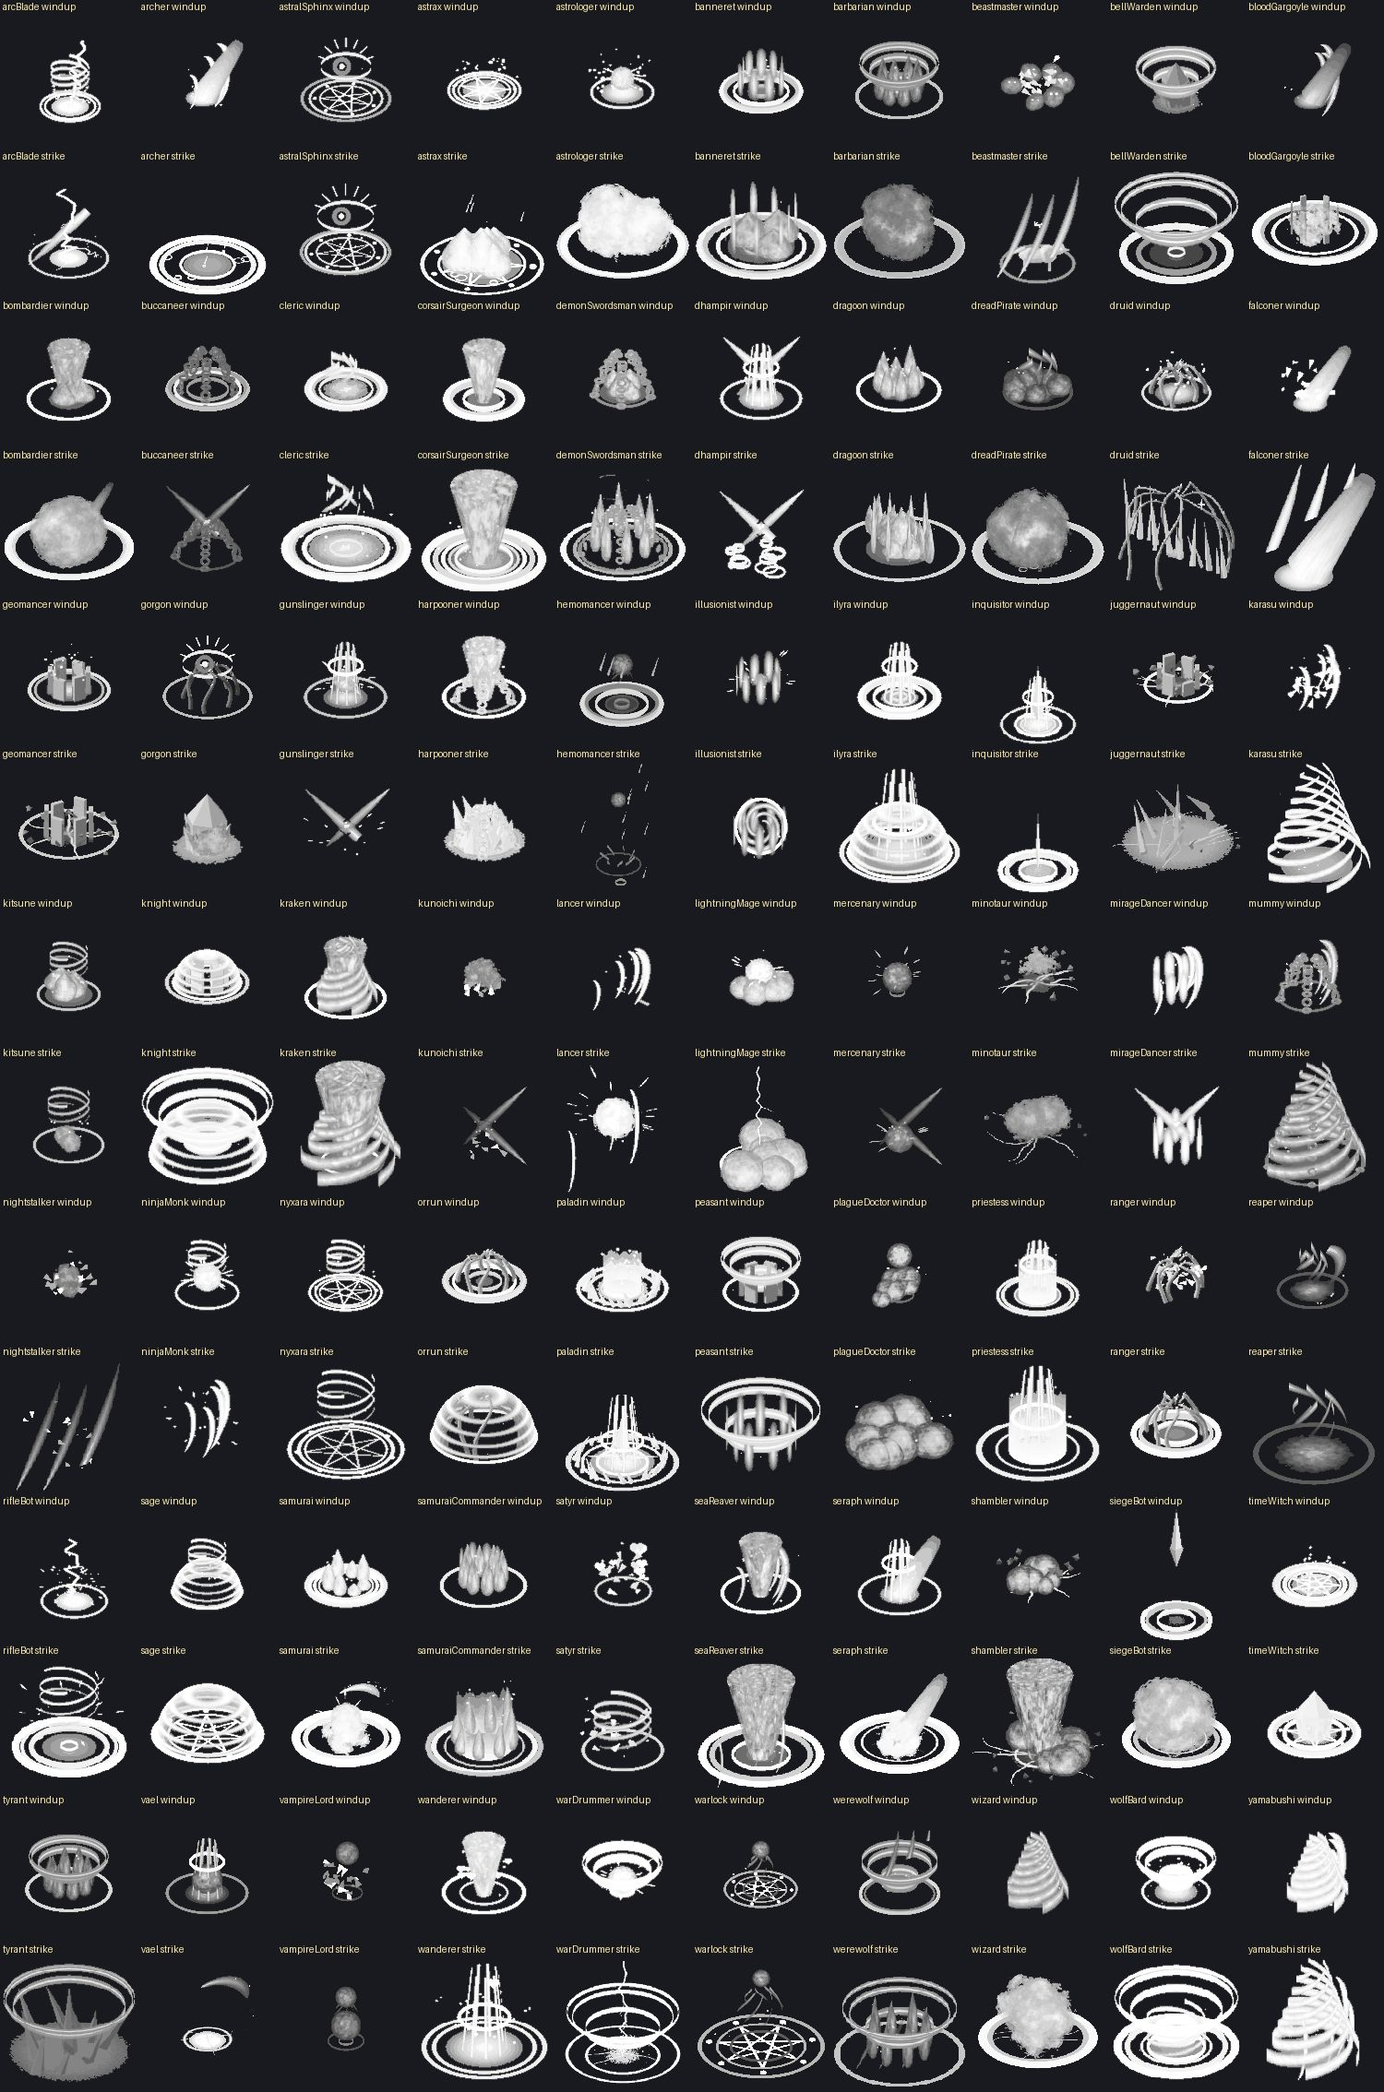
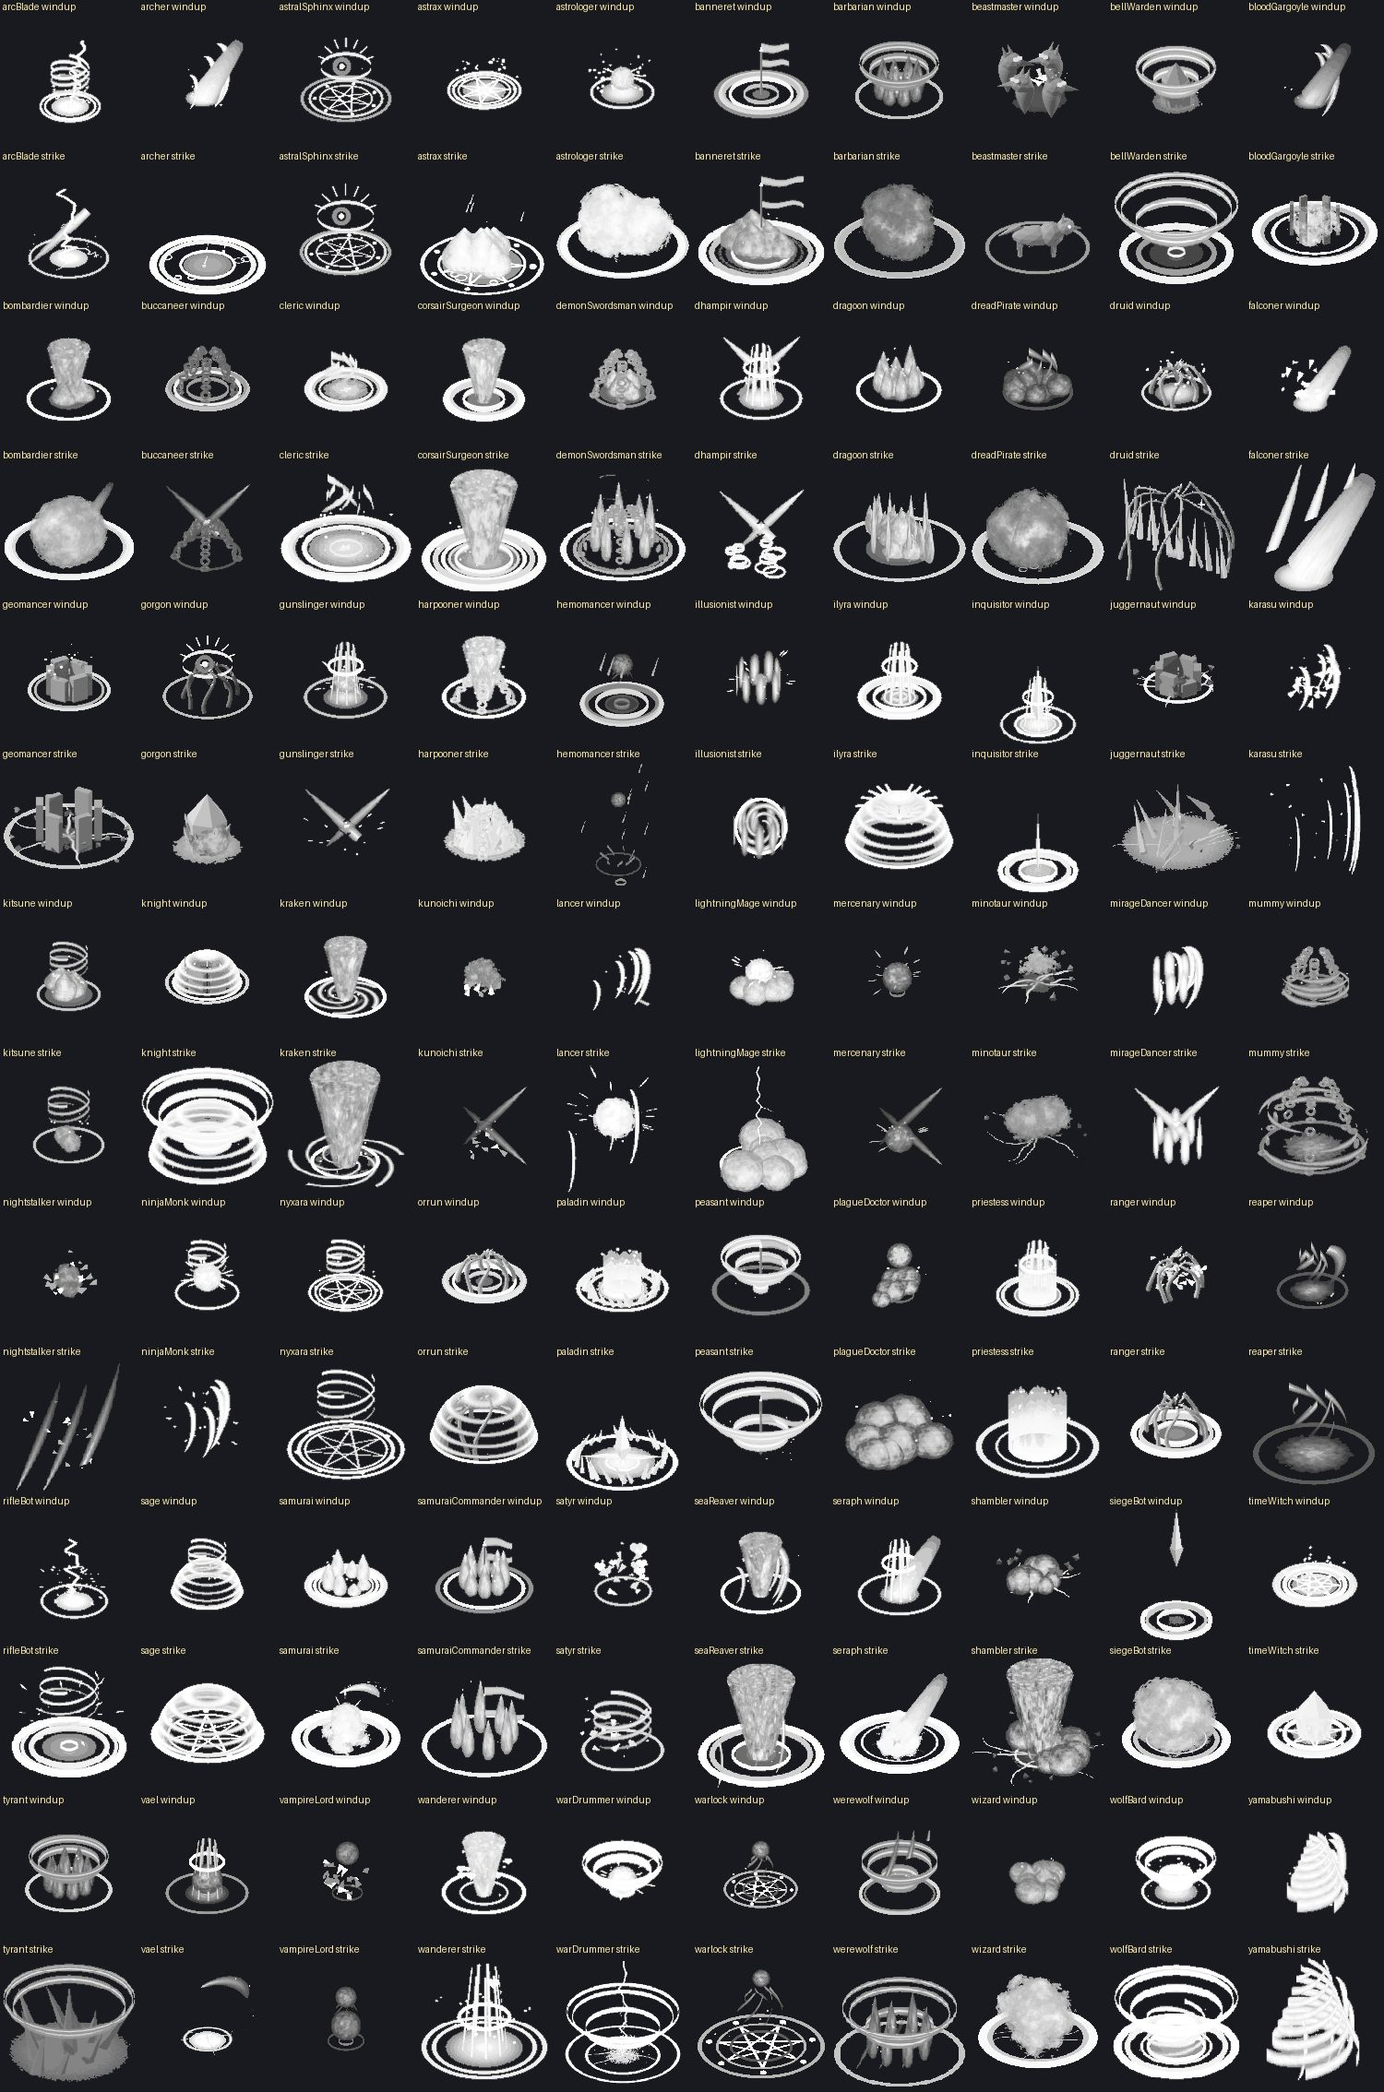
ULT-AUDIT batch 11: three wolves' heads set apart, no ring under a wolf; a show cut short photographed; the note and sheets
Claude-Session: https://claude.ai/code/session_01RRJtWnKv3aqtC5Z8HqXpVz

diff --git a/src/render/blenderFxData.ts b/src/render/blenderFxData.ts
@@ -7,7 +7,7 @@ import type { BfxClip } from './blenderFxRules';
 export const BFX_DENSITY = 45;
 export const BFX_GLOW_SHRINK = 4;
 /** The hard pixel atlases' sizes, then the soft glow atlases' (`px-<n>.webp`, `soft-<n>.webp`). */
-export const BFX_PX: readonly (readonly [number, number])[] = [[2041, 2022], [1992, 694], [1088, 1104], [808, 1016], [822, 588], [885, 820], [217, 241], [988, 806], [1137, 1385], [1003, 623], [994, 778], [316, 280], [986, 966], [1016, 805], [545, 277], [1015, 996], [923, 903], [1020, 720], [1176, 1280], [1516, 1280], [873, 563], [1137, 1405], [1008, 1200], [979, 716], [929, 910], [620, 256], [1264, 1028], [994, 605], [1023, 821], [919, 810], [874, 978], [277, 220], [754, 896], [991, 893], [1022, 950], [280, 259], [817, 817], [918, 856], [980, 813], [802, 799], [834, 1009], [991, 950], [689, 569], [841, 1021], [881, 584], [900, 898], [286, 217], [930, 974], [494, 241], [987, 993], [286, 196], [977, 902], [541, 473], [781, 941], [894, 701], [943, 886], [902, 993], [1076, 1048], [980, 738], [917, 874], [451, 496], [984, 1048], [974, 866], [1001, 758], [1516, 1200], [1014, 630], [1137, 1400], [992, 776], [1516, 1200], [891, 926], [829, 809], [945, 680], [1020, 1011], [813, 223], [1018, 1022], [499, 136], [1024, 1018], [699, 226], [1012, 1015], [515, 145], [1019, 991], [492, 148], [1003, 1020], [428, 213], [1015, 1018], [429, 124], [1003, 1006], [960, 208], [1021, 1023], [473, 145], [1024, 1008], [650, 226]];
+export const BFX_PX: readonly (readonly [number, number])[] = [[2041, 2022], [1992, 694], [1088, 1104], [808, 1016], [822, 588], [885, 820], [217, 241], [988, 806], [1137, 1385], [1016, 691], [994, 778], [316, 280], [986, 966], [1016, 805], [545, 277], [1015, 996], [923, 903], [1020, 720], [1176, 1280], [1516, 1280], [873, 563], [1137, 1405], [1008, 1200], [979, 716], [929, 910], [620, 256], [1264, 1028], [994, 605], [1023, 821], [919, 810], [874, 978], [277, 220], [754, 896], [991, 893], [1022, 950], [280, 259], [817, 817], [918, 856], [980, 813], [802, 799], [834, 1009], [991, 950], [689, 569], [841, 1021], [881, 584], [900, 898], [286, 217], [930, 974], [494, 241], [987, 993], [286, 196], [977, 902], [541, 473], [781, 941], [894, 701], [943, 886], [902, 993], [1076, 1048], [980, 738], [917, 874], [451, 496], [984, 1048], [974, 866], [1001, 758], [1516, 1200], [1014, 630], [1137, 1400], [992, 776], [1516, 1200], [891, 926], [829, 809], [945, 680], [1020, 1011], [813, 223], [1018, 1022], [499, 136], [1024, 1018], [699, 226], [1012, 1015], [515, 145], [1019, 991], [492, 148], [1003, 1020], [428, 213], [1015, 1018], [429, 124], [1003, 1006], [960, 208], [1021, 1023], [473, 145], [1024, 1008], [650, 226]];
 export const BFX_SOFT: readonly (readonly [number, number])[] = [[2048, 1319]];
 /** The pixel atlases every fight may need (the spells, the ground loops): loaded up front. The rest are loaded when a fight needs them. */
 export const BFX_CORE: readonly number[] = [0, 1];
@@ -268,9 +268,9 @@ export const BFX_CLIPS: Readonly<Record<string, BfxClip>> = {
   'ult-barbarian-aftermath': {"a": 16, "x": 265, "y": 626, "w": 111, "h": 88, "n": 9, "cols": 3, "ax": 55.5, "ay": 59.6, "ms": 1500, "loop": false, "hold": 4, "layer": "over", "el": "blood", "cuts": [[0, 7], [1, 8]], "sc": ["crack", "flare"]},
   'ult-barbarian-strike': {"a": 15, "x": 0, "y": 0, "w": 265, "h": 199, "n": 13, "cols": 3, "ax": 132.5, "ay": 132.1, "ms": 1300, "loop": false, "hold": 7, "layer": "over", "el": "blood", "cuts": [[1, 12], [0, 8], [3, 12]], "sc": ["impact", "crack", "burst"]},
   'ult-barbarian-windup': {"a": 16, "x": 631, "y": 0, "w": 97, "h": 86, "n": 12, "cols": 3, "ax": 48.5, "ay": 61.6, "ms": 1600, "loop": false, "hold": 9, "layer": "over", "el": "blood", "cuts": [[0, 11], [3, 11]], "sc": ["flare", "shout"]},
-  'ult-beastmaster-aftermath': {"a": 9, "x": 732, "y": 0, "w": 90, "h": 72, "n": 9, "cols": 3, "ax": 45.0, "ay": 49.5, "ms": 2100, "loop": false, "hold": 4, "layer": "over", "el": "forest", "cuts": [[0, 7], [1, 8]], "sc": ["trail", "motes"]},
-  'ult-beastmaster-strike': {"a": 9, "x": 0, "y": 0, "w": 115, "h": 99, "n": 13, "cols": 4, "ax": 57.5, "ay": 70.3, "ms": 1300, "loop": false, "hold": 7, "layer": "over", "el": "forest", "cuts": [[0, 8], [3, 12]], "sc": ["beast", "trail"], "at": "each"},
-  'ult-beastmaster-windup': {"a": 9, "x": 461, "y": 0, "w": 90, "h": 85, "n": 12, "cols": 3, "ax": 46.0, "ay": 64.0, "ms": 2200, "loop": false, "hold": 11, "layer": "over", "el": "forest", "cuts": [[0, 11], [3, 11]], "sc": ["eyes", "swarm"]},
+  'ult-beastmaster-aftermath': {"a": 9, "x": 0, "y": 429, "w": 89, "h": 87, "n": 9, "cols": 3, "ax": 44.5, "ay": 57.7, "ms": 2100, "loop": false, "hold": 4, "layer": "over", "el": "forest", "cuts": [[0, 7], [1, 8]], "sc": ["gust", "motes"]},
+  'ult-beastmaster-strike': {"a": 9, "x": 370, "y": 0, "w": 98, "h": 91, "n": 13, "cols": 4, "ax": 49.5, "ay": 70.3, "ms": 1300, "loop": false, "hold": 3, "layer": "over", "el": "forest", "cuts": [[0, 8], [3, 12]], "sc": ["beast", "trail"], "at": "each"},
+  'ult-beastmaster-windup': {"a": 9, "x": 0, "y": 0, "w": 123, "h": 107, "n": 12, "cols": 3, "ax": 60.5, "ay": 80.0, "ms": 2200, "loop": false, "hold": 11, "layer": "over", "el": "forest", "cuts": [[0, 11], [3, 11]], "sc": ["eyes", "swarm"]},
   'ult-bellWarden-aftermath': {"a": 59, "x": 283, "y": 573, "w": 104, "h": 84, "n": 9, "cols": 3, "ax": 52.0, "ay": 57.4, "ms": 1700, "loop": false, "hold": 3, "layer": "over", "el": "shadow", "cuts": [[0, 7], [1, 8]], "sc": ["ring", "veil"]},
   'ult-bellWarden-strike': {"a": 59, "x": 0, "y": 0, "w": 162, "h": 143, "n": 13, "cols": 4, "ax": 81.0, "ay": 101.6, "ms": 1300, "loop": false, "hold": 5, "layer": "over", "el": "shadow", "cuts": [[0, 8], [3, 12]], "sc": ["shout", "ring"], "at": "self"},
   'ult-bellWarden-windup': {"a": 59, "x": 649, "y": 0, "w": 89, "h": 75, "n": 12, "cols": 3, "ax": 44.5, "ay": 61.6, "ms": 1900, "loop": false, "hold": 8, "layer": "over", "el": "shadow", "cuts": [[0, 11], [4, 11]], "sc": ["shout", "crystal"]},
@@ -448,9 +448,9 @@ export const BFX_CLIPS: Readonly<Record<string, BfxClip>> = {
   'ult-werewolf-aftermath': {"a": 41, "x": 681, "y": 0, "w": 103, "h": 106, "n": 9, "cols": 3, "ax": 51.5, "ay": 78.5, "ms": 1700, "loop": false, "hold": 3, "layer": "over", "el": "blood", "cuts": [[0, 7], [1, 8]], "sc": ["ring", "claws"]},
   'ult-werewolf-strike': {"a": 41, "x": 0, "y": 0, "w": 170, "h": 165, "n": 13, "cols": 4, "ax": 85.0, "ay": 122.8, "ms": 1300, "loop": false, "hold": 6, "layer": "over", "el": "blood", "cuts": [[0, 8], [3, 12], [1, 11]], "sc": ["claws", "shout", "flare"], "at": "self"},
   'ult-werewolf-windup': {"a": 41, "x": 0, "y": 661, "w": 94, "h": 96, "n": 12, "cols": 4, "ax": 47.0, "ay": 71.0, "ms": 1900, "loop": false, "hold": 8, "layer": "over", "el": "blood", "cuts": [[0, 11], [3, 11], [6, 11]], "sc": ["ring", "shout", "claws"]},
-  'ult-wizard-aftermath': {"a": 9, "x": 0, "y": 397, "w": 115, "h": 75, "n": 9, "cols": 3, "ax": 59.5, "ay": 49.7, "ms": 1800, "loop": false, "hold": 2, "layer": "over", "el": "fire", "cuts": [[0, 7], [1, 8]], "sc": ["crack", "flames"]},
+  'ult-wizard-aftermath': {"a": 9, "x": 268, "y": 429, "w": 115, "h": 75, "n": 9, "cols": 3, "ax": 59.5, "ay": 49.7, "ms": 1800, "loop": false, "hold": 2, "layer": "over", "el": "fire", "cuts": [[0, 7], [1, 8]], "sc": ["crack", "flames"]},
   'ult-wizard-strike': {"a": 8, "x": 0, "y": 0, "w": 379, "h": 277, "n": 13, "cols": 3, "ax": 189.5, "ay": 183.0, "ms": 1300, "loop": false, "hold": 4, "layer": "over", "el": "fire", "cuts": [[1, 12], [0, 8], [3, 12]], "sc": ["impact", "burst", "crack"]},
-  'ult-wizard-windup': {"a": 9, "x": 346, "y": 397, "w": 63, "h": 70, "n": 12, "cols": 4, "ax": 32.0, "ay": 48.8, "ms": 2000, "loop": false, "hold": 10, "layer": "over", "el": "fire", "cuts": [[0, 11], [3, 11]], "sc": ["cloud", "flames"]},
+  'ult-wizard-windup': {"a": 9, "x": 763, "y": 0, "w": 63, "h": 70, "n": 12, "cols": 4, "ax": 32.0, "ay": 48.8, "ms": 2000, "loop": false, "hold": 10, "layer": "over", "el": "fire", "cuts": [[0, 11], [3, 11]], "sc": ["cloud", "flames"]},
   'ult-wolfBard-aftermath': {"a": 51, "x": 268, "y": 573, "w": 104, "h": 92, "n": 9, "cols": 3, "ax": 52.0, "ay": 65.2, "ms": 1700, "loop": false, "hold": 3, "layer": "over", "el": "wind", "cuts": [[0, 7], [1, 8]], "sc": ["ring", "spiral"]},
   'ult-wolfBard-strike': {"a": 51, "x": 0, "y": 0, "w": 162, "h": 143, "n": 13, "cols": 4, "ax": 81.0, "ay": 101.6, "ms": 1300, "loop": false, "hold": 4, "layer": "over", "el": "wind", "cuts": [[0, 8], [3, 12], [1, 11]], "sc": ["shout", "spiral", "ring"], "at": "self"},
   'ult-wolfBard-windup': {"a": 51, "x": 0, "y": 573, "w": 89, "h": 82, "n": 12, "cols": 3, "ax": 44.5, "ay": 61.6, "ms": 1900, "loop": false, "hold": 10, "layer": "over", "el": "wind", "cuts": [[0, 11], [2, 11]], "sc": ["shout", "motes"]},

diff --git a/tools/blender-fx/scenes.py b/tools/blender-fx/scenes.py
@@ -1752,9 +1752,9 @@ def beast(c, size=1.0, puffs=3):
         for o, a, rad, sc in smoke_:
             q = win(t, 0, 0.7)
             put(o, (-F[0] * 0.4 * s + math.cos(a) * rad * s * (0.4 + q), -F[1] * 0.4 * s + math.sin(a) * rad * s * (0.4 + q), 0.2 * s + 0.4 * s * q * sc), 0.24 * s * sc * (0.5 + 0.5 * ease(q)), (q, q * 0.5, a))
-        put(ring, scale=(0.75 * s * (0.3 + 0.7 * ease(win(t, 0.5, 0.9))),) * 2 + (1,))
-        rv.outputs[0].default_value = win(t, 0.5, 0.6) * (1 - win(t, 0.75, 1))
-        hide(ring, t < 0.5)
+        # (no ring where it lands: a bright ring of the element under each wolf was the loudest thing in the picture; a little dust
+        # kicked up is enough)
+        hide(ring, True)
     return step
 
 
@@ -1764,7 +1764,7 @@ def eyes(c, r=1.3, n=5, size=1.0):
     # side by side that open, watch and blink. Animals, plainly, and plainly pairs of eyes)
     em, ev = c.flat((1.0, 0.55, 0.05), 1.6)
     _plain_lights(c)
-    fm, fa = c.solid((0.2, 0.19, 0.2), (0.05, 0.045, 0.05), 0.4, 0.85, 0.0)
+    fm, fa = c.solid((0.13, 0.125, 0.13), (0.035, 0.03, 0.035), 0.4, 0.9, 0.0)
     shade, sa = c.disc('deep', 0.9, r * 1.2, noise=3)
     heads = []
     for k in range(n):
@@ -1793,9 +1793,9 @@ def eyes(c, r=1.3, n=5, size=1.0):
             gk = g * k
             put(neck, (x - RIGHT[0] * f * 0.06 * gk, y - RIGHT[1] * f * 0.06 * gk, z * 0.5), (0.24 * gk + 0.001, 0.24 * gk + 0.001, 0.36 * gk + 0.001), (math.pi, 0, 0))
             put(head, (x, y, z), (0.2 * gk + 0.001, 0.2 * gk + 0.001, 0.17 * gk + 0.001))
-            put(snout, (x + RIGHT[0] * f * 0.27 * gk, y + RIGHT[1] * f * 0.27 * gk, z - 0.045 * gk), (0.085 * gk + 0.001, 0.085 * gk + 0.001, 0.36 * gk + 0.001), (0, f * math.radians(100), math.radians(45)))
+            put(snout, (x + RIGHT[0] * f * 0.33 * gk, y + RIGHT[1] * f * 0.33 * gk, z - 0.05 * gk), (0.095 * gk + 0.001, 0.095 * gk + 0.001, 0.5 * gk + 0.001), (0, f * math.radians(100), math.radians(45)))
             for side, e in zip((-1, 1), ears):
-                put(e, (x - RIGHT[0] * f * (0.07 + side * 0.05) * gk + TOWARDS[0] * side * 0.05 * gk, y - RIGHT[1] * f * (0.07 + side * 0.05) * gk + TOWARDS[1] * side * 0.05 * gk, z + 0.22 * gk), (0.055 * gk + 0.001, 0.055 * gk + 0.001, 0.26 * gk + 0.001), (0, -f * 0.3, math.radians(45)))
+                put(e, (x - RIGHT[0] * f * (0.07 + side * 0.05) * gk + TOWARDS[0] * side * 0.05 * gk, y - RIGHT[1] * f * (0.07 + side * 0.05) * gk + TOWARDS[1] * side * 0.05 * gk, z + 0.22 * gk), (0.075 * gk + 0.001, 0.075 * gk + 0.001, 0.36 * gk + 0.001), (0, -f * 0.3, math.radians(45)))
             opened = win(t, lag + 0.2, lag + 0.28) * (0.12 if abs(t - blink) < 0.03 else 1.0)
             for side, e in zip((-1, 1), pair):
                 # (the near eye, and the far one just seen past the brow)

diff --git a/tools/blender-fx/effects.py b/tools/blender-fx/effects.py
@@ -179,7 +179,7 @@ BIG = dict(
     shout=(dict(r=1.8, h=1.6, n=5), 2.2, 3.2), swarm=(dict(r=1.5, h=2.0, n=30), 1.9, 2.6), motes=(dict(r=1.6, h=2.2, n=34, crosses=7), 2.0, 2.6),
     hearts=(dict(r=1.0, h=2.0, n=9), 1.5, 2.6), wall=(dict(length=3.0, h=1.7, tongues=9), 2.4, 2.2), flames=(dict(r=1.3, h=1.3, tongues=9), 1.9, 2.2),
     palisade=(dict(length=3.2, h=1.7, n=8), 2.4, 2.2), beast=(dict(size=2.3), 1.9, 2.2), whirlpool=(dict(r=1.7, arms=5), 2.0, 0.8), sandstorm=(dict(r=1.6, h=1.3), 1.9, 1.8),
-    wings=(dict(r=1.4, h=2.1), 1.7, 2.9), banner=(dict(h=2.4, w=1.3), 1.7, 2.9), eyes=(dict(r=1.9, n=4, size=2.6), 2.6, 2.4),
+    wings=(dict(r=1.4, h=2.1), 1.7, 2.9), banner=(dict(h=2.4, w=1.3), 1.7, 2.9), eyes=(dict(r=2.5, n=3, size=3.0), 3.1, 2.7),
     implode=(dict(r=1.9, n=16, z=0.8), 2.5, 2.3), slab=(dict(r=0.9, n=6, h=1.3, dark=True), 1.7, 1.9), shaft=(dict(r=0.6, h=3.2, slant=0.4), 2.6, 3.8),
 )
 
@@ -265,7 +265,7 @@ WIND_COLOURS = dict(beastmaster=22)
 # ground loops' pairs out of this file by their shape.)
 AFTER_OWN = dict(
     vael=['sigil', 'souls'], astrax=['flames', 'motes'], ilyra=['ring', 'halo'], orrun=['vines', 'swarm'],
-    nyxara=['sigil', 'spiral'], kunoichi=['cloud', 'swarm'], wizard=['crack', 'flames'], beastmaster=['trail', 'motes'],
+    nyxara=['sigil', 'spiral'], kunoichi=['cloud', 'swarm'], wizard=['crack', 'flames'], beastmaster=['gust', 'motes'],
     mercenary=['crack', 'sparks'], arcBlade=['crack', 'bolt'], samurai=['trail', 'veil'], lancer=['trail', 'gust'],
     minotaur=['crack', 'smoke'], barbarian=['crack', 'flare'], ninjaMonk=['ring', 'gust'], buccaneer=['cloud', 'chains'],
     archer=['ring', 'shaft'], dreadPirate=['crack', 'souls'], siegeBot=['crack', 'cloud'], lightningMage=['cloud', 'bolt'],

diff --git a/docs/notes/ult-audit.md b/docs/notes/ult-audit.md
@@ -238,6 +238,33 @@ cracks under them remain.
   (`aftermath(b, m, Math.max(300, q.left))`), so all its frames play in that second: it reads, faster. A wind-up or strike sheet
   already playing finishes its own run (1.3 s at most) on the board, under the result card; nothing waits on it.
 
+## Batch 11: a whirlpool, a sandstorm, wings, a banner; three wolves; a show cut short, photographed
+
+`docs/samples/blender-fx/audit-batch11-1.jpg` and `-2.jpg` (0.499 above, now below: the Kraken, the Mummy, the Priestess, the Peasant,
+the Samurai Commander, the Banneret, Karasu), `audit-batch11-beastmaster-393.jpg`, `audit-cut-short-393.jpg`, and the grey sheet
+again (`audit-grey.jpg`).
+
+- **Four new scenes** in place of shapes too many heroes shared. `whirlpool`: water turning flat on the ground, spiral arms of foam
+  winding in to a dark eye (the Kraken's Maelstrom was a standing funnel, the same as the Mummy's, Yamabushi's and Karasu's).
+  `sandstorm`: a low wide wall of blown sand, broken bands racing round at different heights (the Mummy). `wings`: two fans of light
+  unfolding from the shoulders (Ilyra, the Priestess; the Seraph's aftermath). `banner`: a planted pole with two pennants streaming
+  (the Peasant, the Samurai Commander, the Banneret, whose strikes were a veil or a pillar over a ring). Karasu's cloud of daggers is
+  feathers and gusts; the Wizard winds up under a gathering cloud, not a funnel; the Paladin's third scene (a third barred ring) is
+  gone. In the sheets the Kraken's whirlpool and spout are the clearest gain over 0.499's two pale balls.
+- Not as good as it should be: the Peasant's banner is small and pale in the earth's tan against the ground; the Mummy's sand is pale.
+  Ilyra is still unphotographed (her ultimate does not fire in the tool).
+- **The Beastmaster's wind-up** is three wolves' heads, larger than a fighter, set apart, darker, each in profile with a long snout and
+  tall ears: in the photograph they are wolves at a glance. **No ring** is left where a wolf lands; the aftermath is a low swirl and
+  motes at the Beastmaster's feet. Standing wolves have nothing green under them.
+- **A show cut short**, staged and photographed (`CUT=strike` and `CUT=windup` in `tools/blender-fx/ult-shots.mjs`: the fight is ended
+  150 ms after the blow, or 60% through the wind-up, and the next 2 s are photographed). Cut after the blow (the Cleric): the strike
+  finishes, and the guardians go on circling; it reads. Cut during the wind-up (the Kraken, the Samurai): the wind-up sheet plays on
+  for about a third of a second and is gone; NO strike and NO aftermath sheet is seen, the show simply ends. That is the case of an
+  ultimate that itself ends the fight: the player sees its wind-up and then the result. Whether that last second should show the
+  blow is a question for the freeze fix's rule (one second of aftermath); I tried playing the strike in the aftermath's turn and it
+  did not show (the cut does not reach the aftermath's stage from the wind-up), so I took the change out rather than leave it
+  unseen. Nothing lingers, nothing waits, no errors.
+
 ## The audit of all 70
 
 To come, in batches: for each ultimate, what it does in the sim, what 0.499 showed, what main shows now, and the verdict; then the ten
